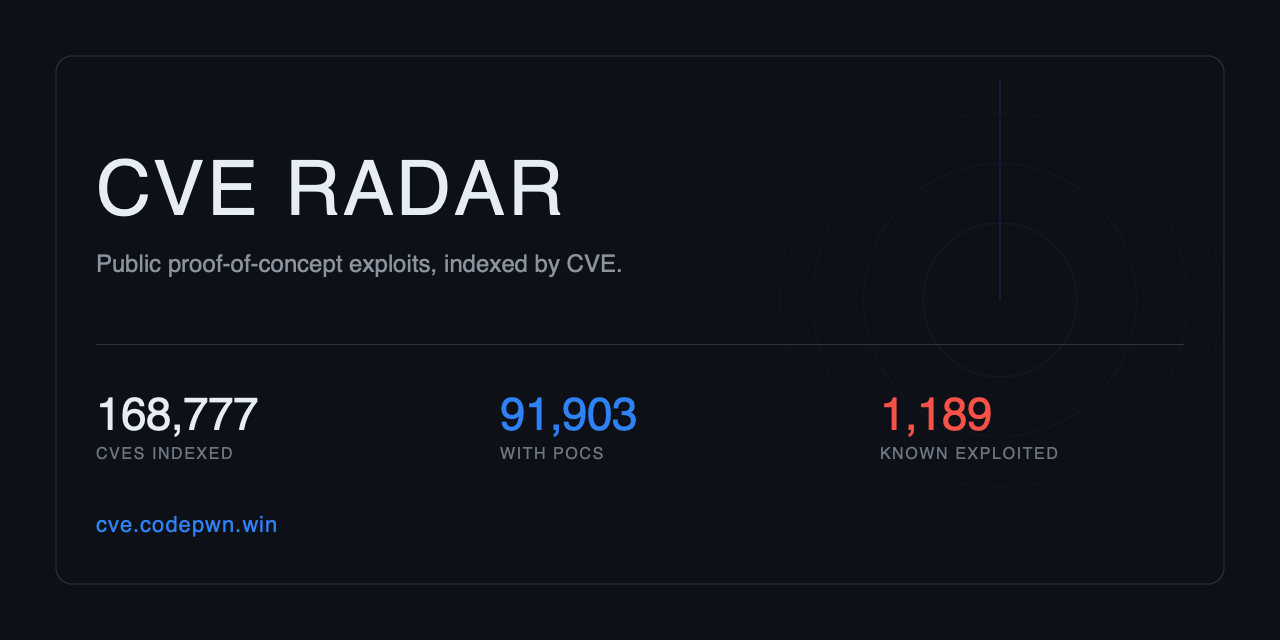
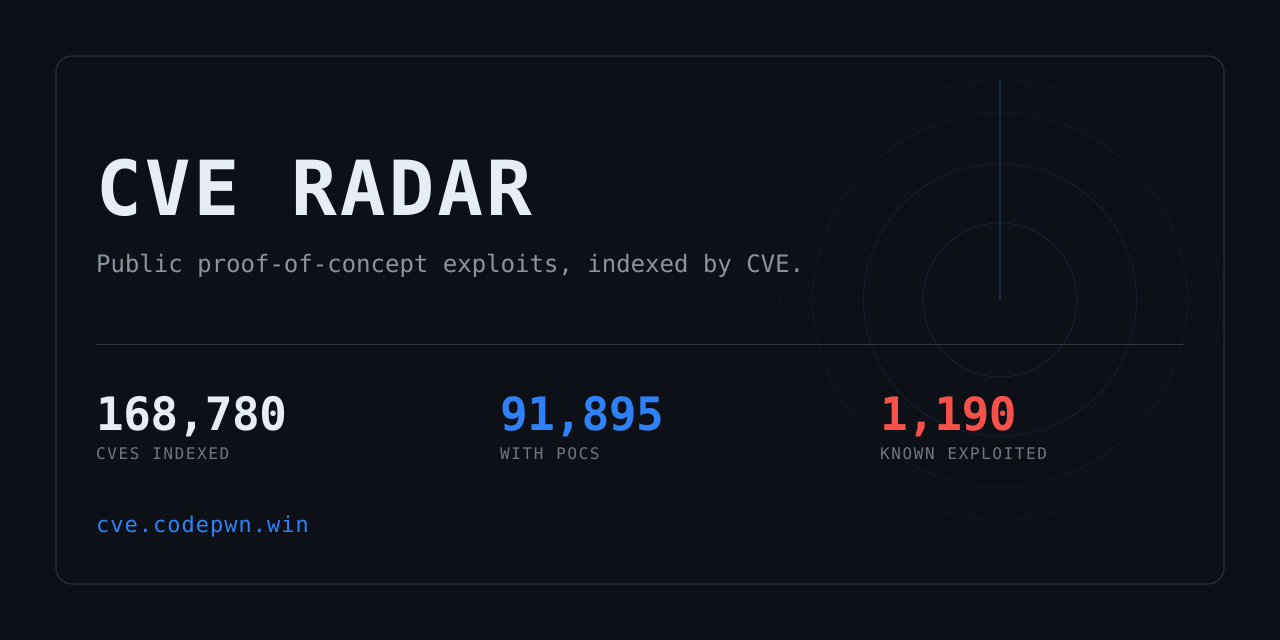
Trending CVEs update 2026-09-01 17:43 :robot:

diff --git a/README.md b/README.md
@@ -1,8 +1,8 @@
 <div align="center">
 
-<a href="https://cve.codepwn.win/"><img src="https://raw.githubusercontent.com/0xMarcio/cve/main/docs/hero.svg?v=202609011654" alt="CVE Radar" width="100%"></a>
+<a href="https://cve.codepwn.win/"><img src="https://raw.githubusercontent.com/0xMarcio/cve/main/docs/hero.svg?v=202609011742" alt="CVE Radar" width="100%"></a>
 
-[![last sync](https://img.shields.io/badge/last%20sync-01%20Sep%202026%2016%3A54%20UTC-2f81f7?style=flat-square&labelColor=161b22)](https://github.com/0xMarcio/cve/commits/main)&nbsp;[![CI](https://img.shields.io/github/actions/workflow/status/0xMarcio/cve/hot_cves.yml?style=flat-square&label=CI&color=2f81f7&labelColor=161b22&_=202609011654)](https://github.com/0xMarcio/cve/actions/workflows/hot_cves.yml)&nbsp;[![CVEs with PoCs](https://img.shields.io/badge/CVEs%20with%20PoCs-91%2C903-2f81f7?style=flat-square&labelColor=161b22)](https://cve.codepwn.win/)&nbsp;[![known exploited](https://img.shields.io/badge/known%20exploited-1%2C189-f85149?style=flat-square&labelColor=161b22)](https://cve.codepwn.win/)&nbsp;[![stars](https://img.shields.io/github/stars/0xMarcio/cve?style=flat-square&label=stars&color=e3b341&labelColor=161b22&_=202609011654)](https://github.com/0xMarcio/cve/stargazers)
+[![last sync](https://img.shields.io/badge/last%20sync-01%20Sep%202026%2017%3A42%20UTC-2f81f7?style=flat-square&labelColor=161b22)](https://github.com/0xMarcio/cve/commits/main)&nbsp;[![CI](https://img.shields.io/github/actions/workflow/status/0xMarcio/cve/hot_cves.yml?style=flat-square&label=CI&color=2f81f7&labelColor=161b22&_=202609011742)](https://github.com/0xMarcio/cve/actions/workflows/hot_cves.yml)&nbsp;[![CVEs with PoCs](https://img.shields.io/badge/CVEs%20with%20PoCs-91%2C895-2f81f7?style=flat-square&labelColor=161b22)](https://cve.codepwn.win/)&nbsp;[![known exploited](https://img.shields.io/badge/known%20exploited-1%2C190-f85149?style=flat-square&labelColor=161b22)](https://cve.codepwn.win/)&nbsp;[![stars](https://img.shields.io/github/stars/0xMarcio/cve?style=flat-square&label=stars&color=e3b341&labelColor=161b22&_=202609011742)](https://github.com/0xMarcio/cve/stargazers)
 
 </div>
 
@@ -15,22 +15,22 @@ No star floor here, so a PoC published this morning shows up the same day rather
 | Stars | Updated | Repository | Description |
 | --- | --- | --- | --- |
 | 0⭐ | 6h ago | [CVE-2025-39401](https://github.com/katranSefa/CVE-2025-39401) | Unrestricted Upload of File with Dangerous Type vulnerability in mojoomla WPAMS apartment-management allows… |
-| 0⭐ | 10h ago | [CVE-2026-82329](https://github.com/HORKimhab/CVE-2026-82329) | JFrog Artifactory contains an authentication weakness that, under default configuration, may allow an… |
-| 0⭐ | 19h ago | [CVE-2025-69080](https://github.com/AndrielSec/CVE-2025-69080) | Improper Control of Filename for Include/Require Statement in PHP Program ('PHP Remote File Inclusion')… |
+| 0⭐ | 20h ago | [CVE-2025-69080](https://github.com/AndrielSec/CVE-2025-69080) | Improper Control of Filename for Include/Require Statement in PHP Program ('PHP Remote File Inclusion')… |
 | 0⭐ | 1d ago | <img src="https://raw.githubusercontent.com/0xMarcio/cve/main/docs/kev.svg" alt="KEV" title="CISA known exploited" height="14"> [cve-2025-20333](https://github.com/cobbbex/cve-2025-20333) | A vulnerability in the VPN web server of Cisco Secure Firewall Adaptive Security Appliance (ASA) Software and… |
 | 10⭐ | 1d ago | <img src="https://raw.githubusercontent.com/0xMarcio/cve/main/docs/kev.svg" alt="KEV" title="CISA known exploited" height="14"> [cve-2025-21479-iqoo11pro](https://github.com/Type010/cve-2025-21479-iqoo11pro) | Memory corruption due to unauthorized command execution in GPU micronode while executing specific sequence of… |
 | 2⭐ | 1d ago | [CVE-2026-78904-Digital-Dinar-Drain](https://github.com/vxssroott/CVE-2026-78904-Digital-Dinar-Drain) | CBDC Infrastructure Vulnerability Research. CVE-2026-78904: Infinite mint and redemption bypass in central… |
-| 0⭐ | 1d ago | [cve-2026-42945](https://github.com/FranklinF25/cve-2026-42945) | NGINX Plus and NGINX Open Source have a vulnerability in the ngx_http_rewrite_module module. This… |
 | 0⭐ | 2d ago | [CVE-2025-6440](https://github.com/katranSefa/CVE-2025-6440) | The WooCommerce Designer Pro plugin for WordPress, used by the Pricom - Printing Company & Design Services… |
-| 0⭐ | 2d ago | [CVE-2026-76581](https://github.com/HORKimhab/CVE-2026-76581) | The WPMU DEV Dashboard plugin for WordPress is vulnerable to Authentication Bypass in all versions up to, and… |
 | 10⭐ | 2d ago | [givewp-cve-2026-82222-rce-lab](https://github.com/dinosn/givewp-cve-2026-82222-rce-lab) | Authorized Docker lab and clean PoC for validating CVE-2026-82222 RCE in GiveWP 4.16.5.1 and the 4.16.7.2 fix. |
+| 2⭐ | 3d ago | [CVE-2026-19745](https://github.com/drbloop2000/CVE-2026-19745) | Learn how I found my first two CVEs by pure accident. |
+| 2⭐ | 3d ago | <img src="https://raw.githubusercontent.com/0xMarcio/cve/main/docs/kev.svg" alt="KEV" title="CISA known exploited" height="14"> [PaperCut-CVE-2026-81578-82078](https://github.com/yora1928/PaperCut-CVE-2026-81578-82078) | Security research tool for PaperCut CVE-2026-81578 & CVE-2026-82078 |
+| 0⭐ | 3d ago | [cve-2025-29927](https://github.com/kuyrathdaro/cve-2025-29927) | Next.js is a React framework for building full-stack web applications. Starting in version 1.11.4 and prior… |
 
 ## 2026 &middot; newest 20 of 255
 
 | Stars | Updated | Repository | Description |
 | --- | --- | --- | --- |
 | 81⭐ | 6d ago | [CVE-2026-75604-poc](https://github.com/rafabd1/CVE-2026-75604-poc) | CVE-2026-75604 Next.js Windows RCE poc |
-| 159⭐ | 10d ago | [CVE-2026-62911](https://github.com/hypnguyen1209/CVE-2026-62911) | POC pre-auth RCE on Exchange |
+| 160⭐ | 10d ago | [CVE-2026-62911](https://github.com/hypnguyen1209/CVE-2026-62911) | POC pre-auth RCE on Exchange |
 | 53⭐ | 11d ago | [CVE-2026-64638-PoC-XSS2Shell-](https://github.com/Boreas37/CVE-2026-64638-PoC-XSS2Shell-) | XSS2Shell (CVE-2026-64638) WordPress pre-auth XSS to RCE chain - PoC exploit + defensive audit tool + nuclei… |
 | 37⭐ | 11d ago | [CVE-2026-18963-Exploit](https://github.com/Snizi/CVE-2026-18963-Exploit) | Exploit for KeyCloak CVE-2026-18963 |
 | 427⭐ | 11d ago | [CVE-2026-9830](https://github.com/opaxial/CVE-2026-9830) | CVE-2026-9830 Proof of Concept |
@@ -59,7 +59,7 @@ No star floor here, so a PoC published this morning shows up the same day rather
 | 20⭐ | 21d ago | [CVE-2025-7771](https://github.com/enessakircolak/CVE-2025-7771) | ThrottleStop.sys Arbitrary Physical Memory R/W |
 | 6⭐ | 26d ago | [CVE-2025-8045](https://github.com/kuzeyardabulut/CVE-2025-8045) | Dirty Pagetable Exploit for CVE-2025-8045 |
 | 6⭐ | 30d ago | <img src="https://raw.githubusercontent.com/0xMarcio/cve/main/docs/kev.svg" alt="KEV" title="CISA known exploited" height="14"> [SELinux-Permissive-Only-CVE-2025-21479](https://github.com/CamsShaft/SELinux-Permissive-Only-CVE-2025-21479) | This is an SELinux permissive version of the Cheese exploit also known as CVE-2025-21479 which affected the… |
-| 4⭐ | 41d ago | <img src="https://raw.githubusercontent.com/0xMarcio/cve/main/docs/kev.svg" alt="KEV" title="CISA known exploited" height="14"> [CVE-2025-32432](https://github.com/c0gnit00/CVE-2025-32432) | Exploit, POC for CVE-2025-32432, CraftCMS2Shell |
+| 4⭐ | 42d ago | <img src="https://raw.githubusercontent.com/0xMarcio/cve/main/docs/kev.svg" alt="KEV" title="CISA known exploited" height="14"> [CVE-2025-32432](https://github.com/c0gnit00/CVE-2025-32432) | Exploit, POC for CVE-2025-32432, CraftCMS2Shell |
 | 4⭐ | 44d ago | [CVE-2025-64512](https://github.com/matesz44/CVE-2025-64512) | CVE-2025-64512: pdfminer.six pickle deserialization rce; .pickle.gz + pdf generator w/ custom payloads |
 | 5⭐ | 46d ago | <img src="https://raw.githubusercontent.com/0xMarcio/cve/main/docs/kev.svg" alt="KEV" title="CISA known exploited" height="14"> [CVE-2025-8110-gogs-poc](https://github.com/Shirouuu/CVE-2025-8110-gogs-poc) | PoC for CVE-2025-8110 - Gogs arbitrary file write via symlink |
 | 7⭐ | 55d ago | [CVE-2025-30065](https://github.com/h3st4k3r/CVE-2025-30065) | This PoC targets CVE-2025-30065, an RCE vulnerability in Apache Parquet via Avro schema deserialization. It… |
@@ -92,7 +92,7 @@ No star floor here, so a PoC published this morning shows up the same day rather
 | 3⭐ | 36d ago | [CVE-2023-52076-PoC](https://github.com/Groppoxx/CVE-2023-52076-PoC) | PoC exploit for CVE-2023-52076 - zip-slip path traversal in Atril/Xreader (MATE/Cinnamon) enabling arbitrary… |
 | 5⭐ | 40d ago | [CVE-2023-36003](https://github.com/johnnygreeme/CVE-2023-36003) | PoC for CVE-2023-36003: Windows Exploit Security Feature Bypass Vulnerability in Windows Defender. |
 | 3⭐ | 55d ago | <img src="https://raw.githubusercontent.com/0xMarcio/cve/main/docs/kev.svg" alt="KEV" title="CISA known exploited" height="14"> [cve-2023-4911-exploit-optimized](https://github.com/jarpex/cve-2023-4911-exploit-optimized) | Pure C exploit for CVE-2023-4911 (Looney Tunables) - x86_64 & aarch64 implementations. Multi-processing… |
-| 15⭐ | 57d ago | <img src="https://raw.githubusercontent.com/0xMarcio/cve/main/docs/kev.svg" alt="KEV" title="CISA known exploited" height="14"> [CVE-2023-32315-EXPLOIT](https://github.com/K3ysTr0K3R/CVE-2023-32315-EXPLOIT) | A PoC exploit for CVE-2023-32315 - Openfire Authentication Bypass |
+| 15⭐ | 58d ago | <img src="https://raw.githubusercontent.com/0xMarcio/cve/main/docs/kev.svg" alt="KEV" title="CISA known exploited" height="14"> [CVE-2023-32315-EXPLOIT](https://github.com/K3ysTr0K3R/CVE-2023-32315-EXPLOIT) | A PoC exploit for CVE-2023-32315 - Openfire Authentication Bypass |
 | 6⭐ | 73d ago | [CVE-2023-6019](https://github.com/joaquinrrr/CVE-2023-6019) | PoC exploit for CVE-2023-6019 - Remote Code Execution via unauthenticated Ray Dashboard Jobs API. |
 
 ## 2022 &middot; newest 1 of 11
